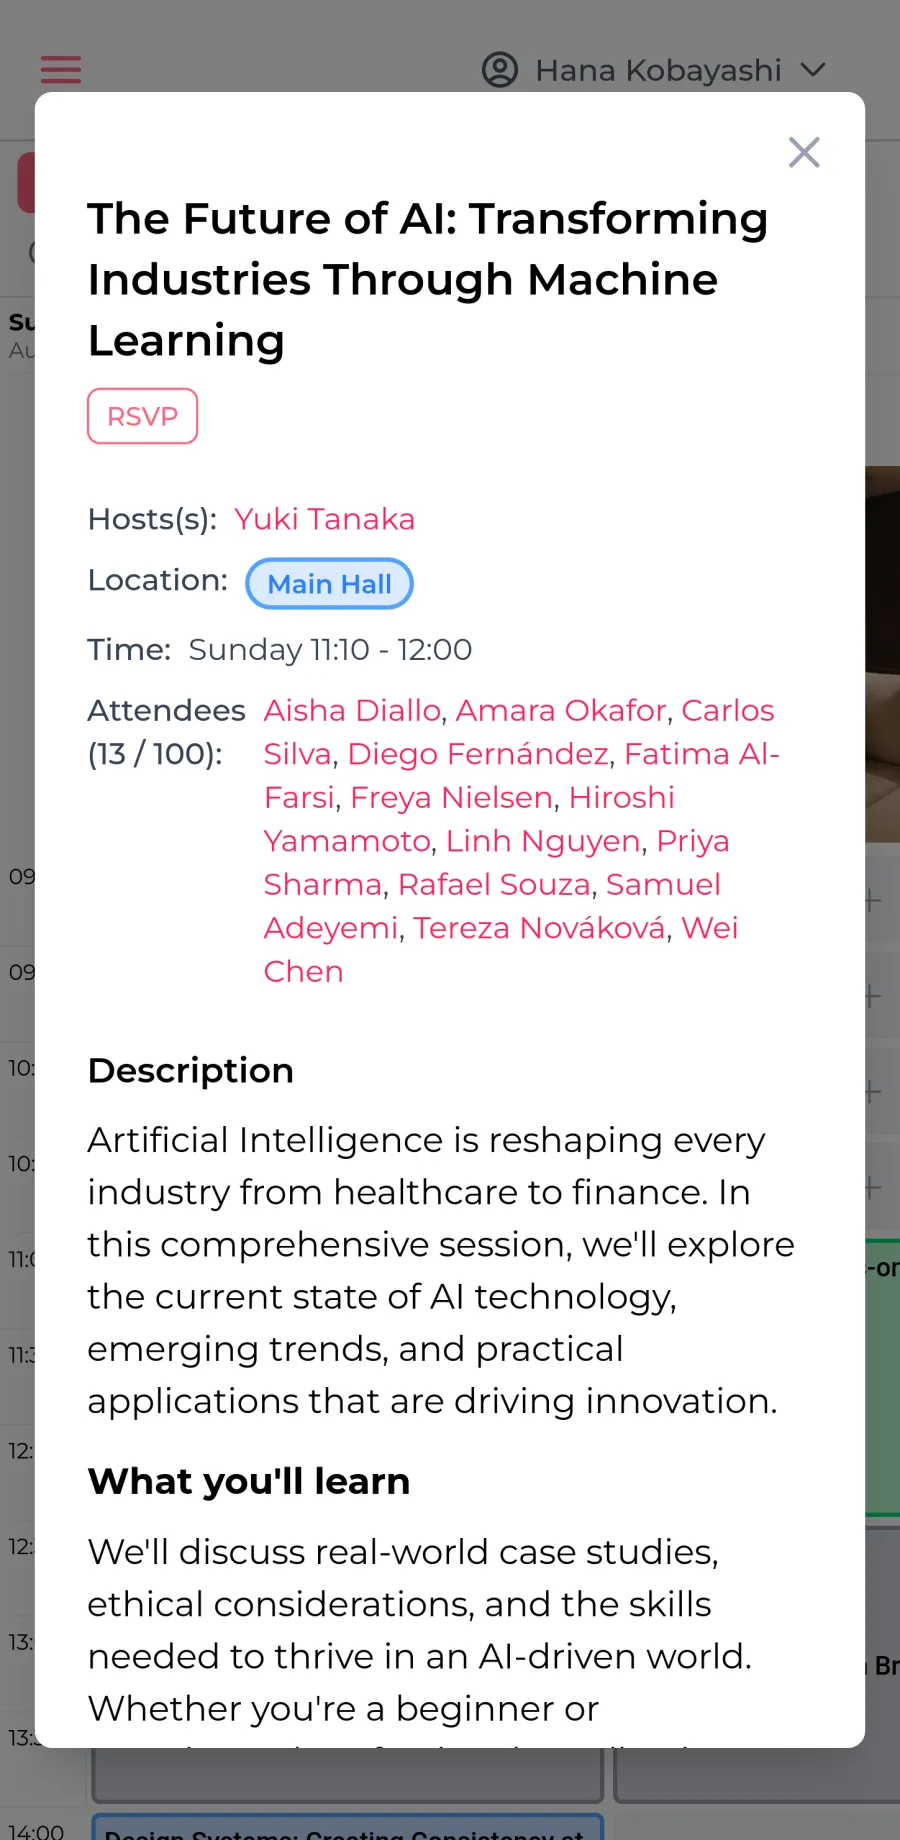
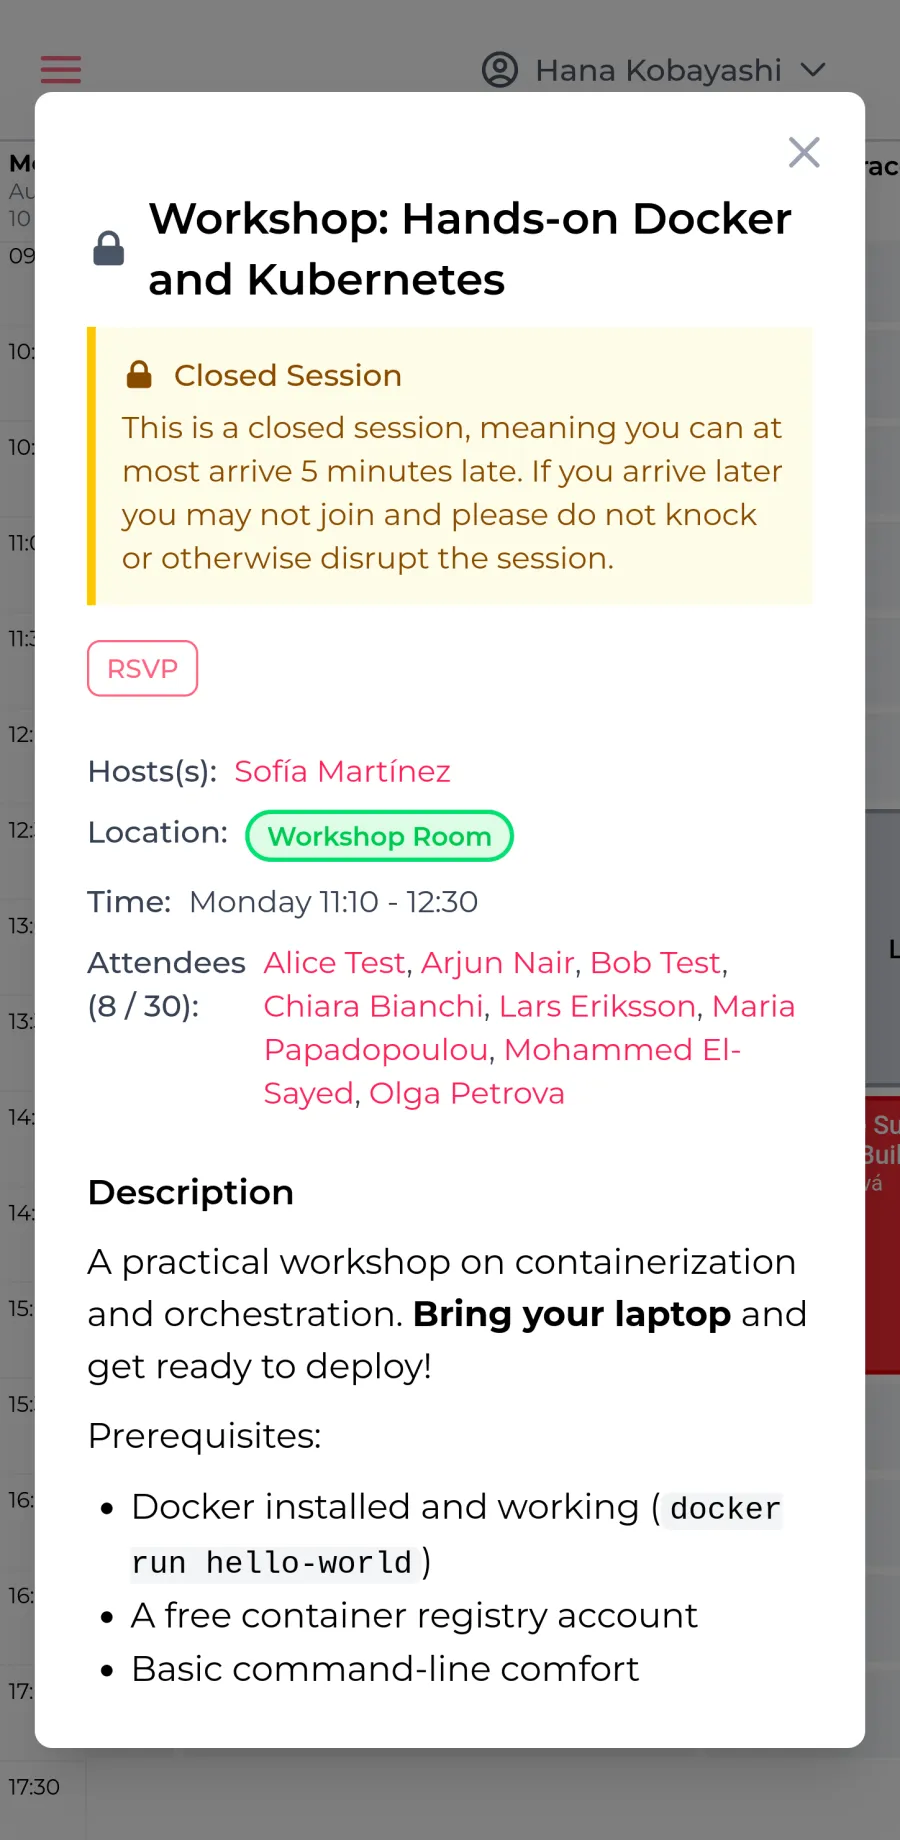
fix(www): Screenshot was missing closed-session warning

diff --git a/www/screenshots.html b/www/screenshots.html
@@ -449,8 +449,8 @@
           <figcaption>
             <span class="step-title">13. Closed-session notices</span>
             <span class="step-desc"
-              >Attendees are warned about late-arrival rules before they
-              RSVP.</span
+              >Attendees are warned about late-arrival rules before they RSVP
+              (here the mobile view).</span
             >
           </figcaption>
           <img

diff --git a/docs/screenshots/README.md b/docs/screenshots/README.md
@@ -90,7 +90,7 @@ changes materially. Check off `[ ]` as you go.
 ### Mobile (Galaxy Note 9)
 
 - [ ] `mobile-schedule.webp` — Scheduling grid rendered on a phone screen
-- [ ] `mobile-session-details.webp` — Mobile session detail popup with closed-session warning
+- [ ] `mobile-session-details.webp` — Mobile session detail popup **with closed-session warning**
 
 After capturing, run `make www`, open `www-site/screenshots.html`, and click
 through the lightbox to confirm captions still match what's on screen.
